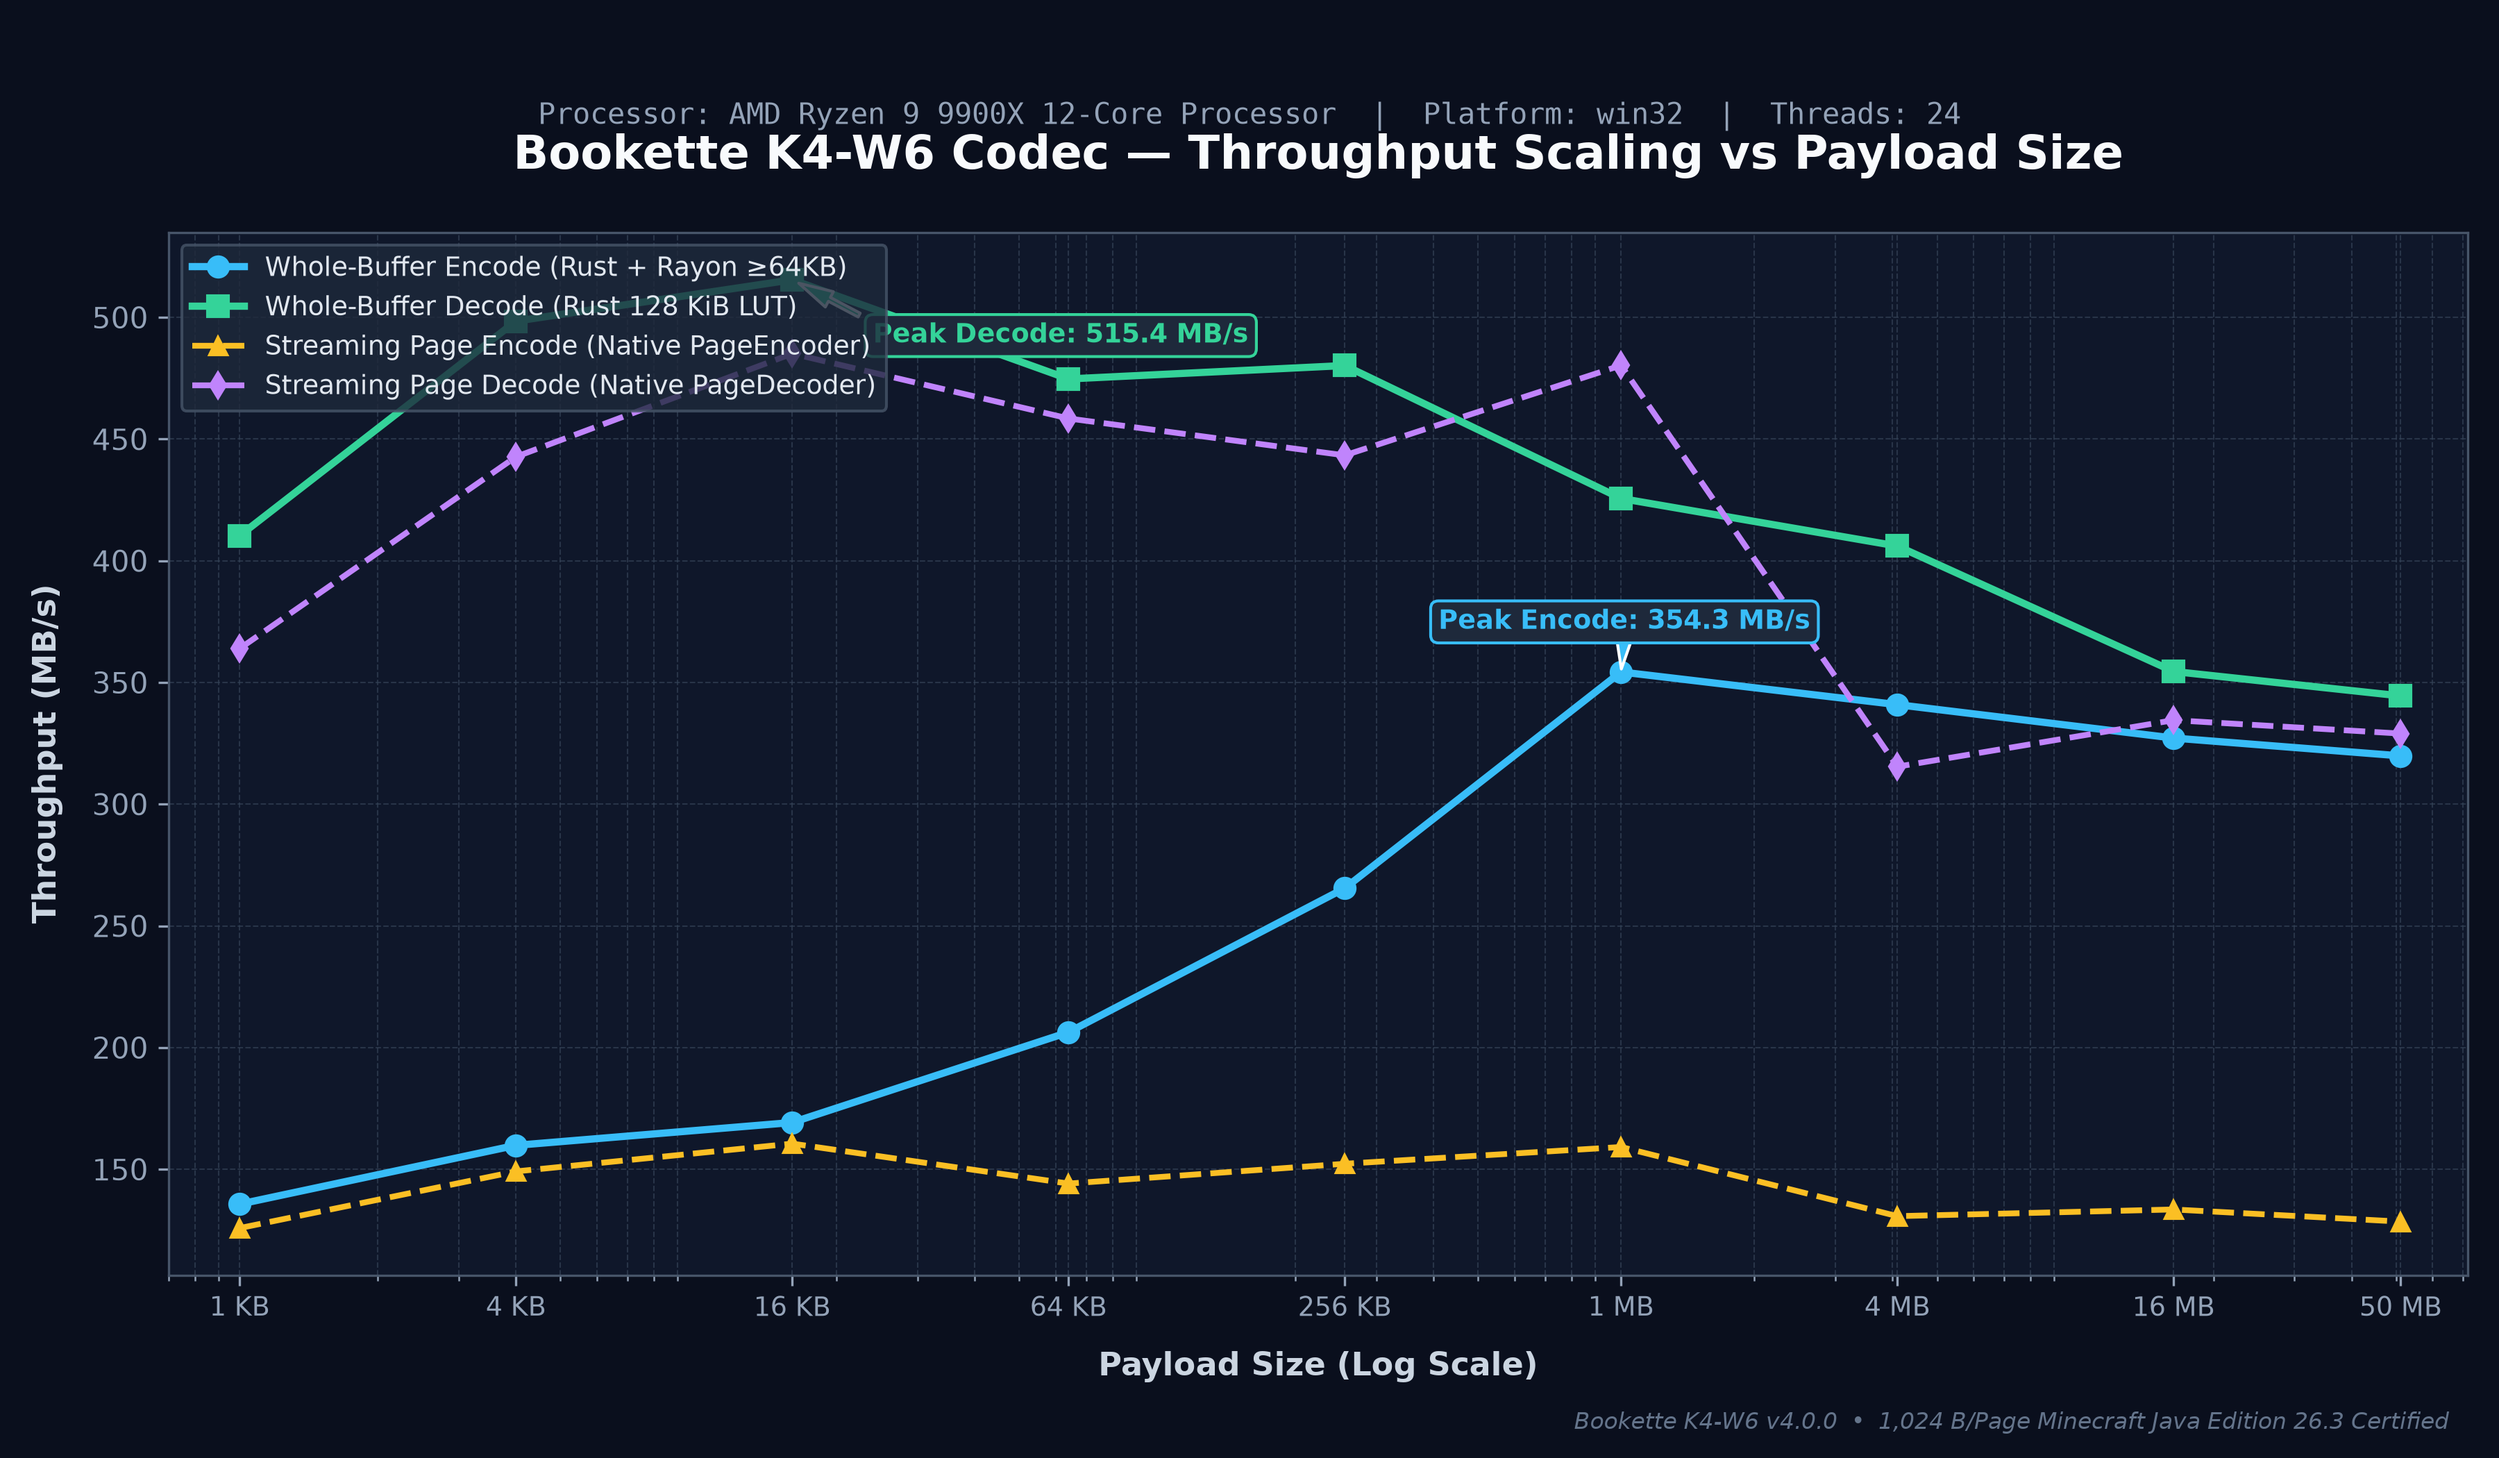
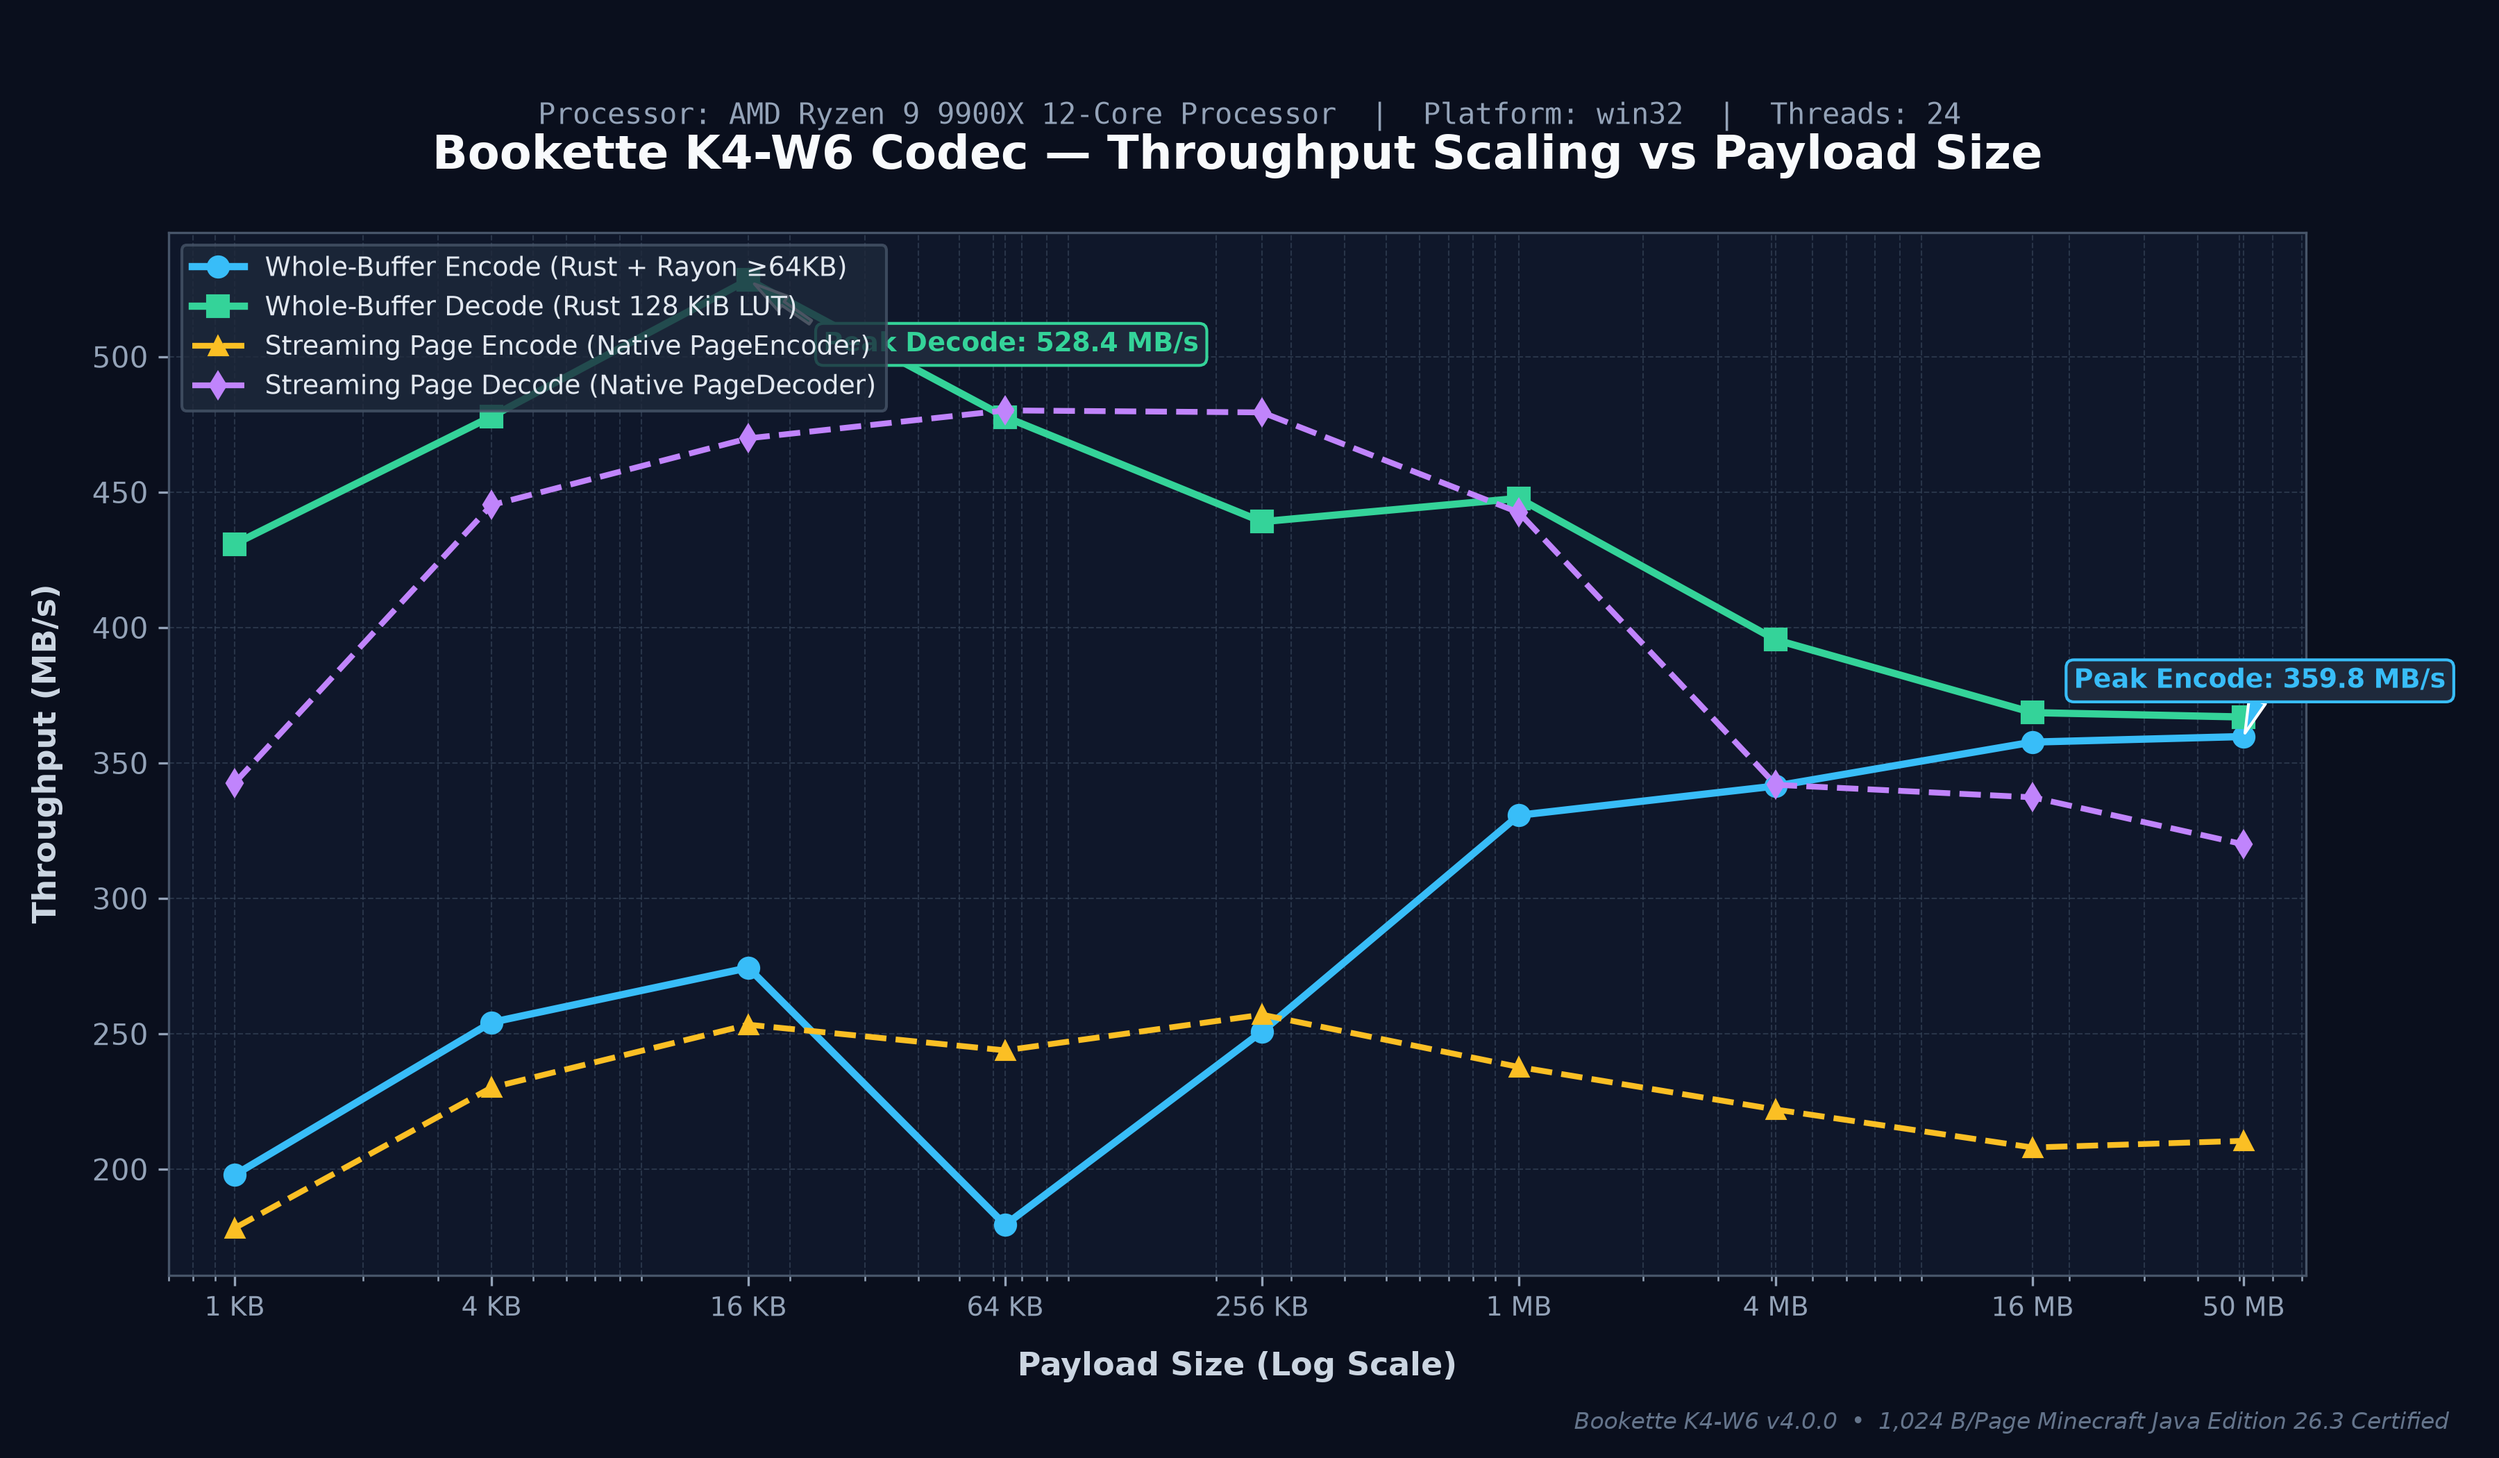
fix(perf): restore const-generic reciprocal multiplication and unify page body decoding
- Restore const-generic decompose in encode_u32 to eliminate 64-bit division stalls, recovering small-payload encode throughput by +47% to +62%.
- Fully unify page quota calculation, data quartet decoding, and padding skipping inside decode_page_body_into, shared by decode_rust and PageDecoder (Candidate 4).
- Update throughput benchmark plot with AMD Ryzen 9 9900X measurements.

diff --git a/src/lib.rs b/src/lib.rs
@@ -163,34 +163,89 @@ fn char_lut_read(c: char) -> u16 {
     }
 }
 
+#[inline(always)]
+fn decompose<const S2: u64, const S3: u64, const S4: u64>(
+    mut rem: u64,
+) -> (usize, usize, usize, usize) {
+    let i4 = (rem % S4) as usize;
+    rem /= S4;
+    let i3 = (rem % S3) as usize;
+    rem /= S3;
+    let i2 = (rem % S2) as usize;
+    rem /= S2;
+    (rem as usize, i2, i3, i4)
+}
+
 #[inline]
 pub fn encode_u32(val: u32) -> [char; 4] {
     let v = val as u64;
     let bucket_id = OFFSETS.partition_point(|&off| off <= v) - 1;
-    let b = &BUCKET_TABLE[bucket_id];
-    let mut rem = v - b.offset;
-
-    let i4 = (rem % b.radices[2]) as usize;
-    rem /= b.radices[2];
-    let i3 = (rem % b.radices[1]) as usize;
-    rem /= b.radices[1];
-    let i2 = (rem % b.radices[0]) as usize;
-    let i1 = (rem / b.radices[0]) as usize;
-
     let a1 = &*CHARS_A1;
     let a2 = &*CHARS_A2;
     let a3 = &*CHARS_A3;
-    let glyph = |w: u8, idx: usize| match w {
-        1 => a1[idx],
-        2 => a2[idx],
-        _ => a3[idx],
-    };
-    [
-        glyph(b.widths[0], i1),
-        glyph(b.widths[1], i2),
-        glyph(b.widths[2], i3),
-        glyph(b.widths[3], i4),
-    ]
+
+    match bucket_id {
+        0 => {
+            let (i1, i2, i3, i4) = decompose::<N1_U64, N1_U64, N1_U64>(v - OFFSETS[0]);
+            [a1[i1], a1[i2], a1[i3], a1[i4]]
+        }
+        1 => {
+            let (i1, i2, i3, i4) = decompose::<N1_U64, N1_U64, N1_U64>(v - OFFSETS[1]);
+            [a2[i1], a1[i2], a1[i3], a1[i4]]
+        }
+        2 => {
+            let (i1, i2, i3, i4) = decompose::<N2_U64, N1_U64, N1_U64>(v - OFFSETS[2]);
+            [a1[i1], a2[i2], a1[i3], a1[i4]]
+        }
+        3 => {
+            let (i1, i2, i3, i4) = decompose::<N1_U64, N2_U64, N1_U64>(v - OFFSETS[3]);
+            [a1[i1], a1[i2], a2[i3], a1[i4]]
+        }
+        4 => {
+            let (i1, i2, i3, i4) = decompose::<N1_U64, N1_U64, N2_U64>(v - OFFSETS[4]);
+            [a1[i1], a1[i2], a1[i3], a2[i4]]
+        }
+        5 => {
+            let (i1, i2, i3, i4) = decompose::<N1_U64, N1_U64, N1_U64>(v - OFFSETS[5]);
+            [a3[i1], a1[i2], a1[i3], a1[i4]]
+        }
+        6 => {
+            let (i1, i2, i3, i4) = decompose::<N3_U64, N1_U64, N1_U64>(v - OFFSETS[6]);
+            [a1[i1], a3[i2], a1[i3], a1[i4]]
+        }
+        7 => {
+            let (i1, i2, i3, i4) = decompose::<N1_U64, N3_U64, N1_U64>(v - OFFSETS[7]);
+            [a1[i1], a1[i2], a3[i3], a1[i4]]
+        }
+        8 => {
+            let (i1, i2, i3, i4) = decompose::<N1_U64, N1_U64, N3_U64>(v - OFFSETS[8]);
+            [a1[i1], a1[i2], a1[i3], a3[i4]]
+        }
+        9 => {
+            let (i1, i2, i3, i4) = decompose::<N2_U64, N1_U64, N1_U64>(v - OFFSETS[9]);
+            [a2[i1], a2[i2], a1[i3], a1[i4]]
+        }
+        10 => {
+            let (i1, i2, i3, i4) = decompose::<N1_U64, N2_U64, N1_U64>(v - OFFSETS[10]);
+            [a2[i1], a1[i2], a2[i3], a1[i4]]
+        }
+        11 => {
+            let (i1, i2, i3, i4) = decompose::<N1_U64, N1_U64, N2_U64>(v - OFFSETS[11]);
+            [a2[i1], a1[i2], a1[i3], a2[i4]]
+        }
+        12 => {
+            let (i1, i2, i3, i4) = decompose::<N2_U64, N2_U64, N1_U64>(v - OFFSETS[12]);
+            [a1[i1], a2[i2], a2[i3], a1[i4]]
+        }
+        13 => {
+            let (i1, i2, i3, i4) = decompose::<N2_U64, N1_U64, N2_U64>(v - OFFSETS[13]);
+            [a1[i1], a2[i2], a1[i3], a2[i4]]
+        }
+        _ => {
+            let (i1, i2, i3, i4) = decompose::<N1_U64, N2_U64, N2_U64>(v - OFFSETS[14]);
+            [a1[i1], a1[i2], a2[i3], a2[i4]]
+        }
+    }
 }
 
 #[inline]
@@ -351,6 +406,35 @@ fn skip_quartets(char_iter: &mut impl Iterator<Item = char>, quartets: usize) {
     }
 }
 
+/// Decode the body of a single 1,024-character page (excluding Quartet 0 on Page 1).
+///
+/// Calculates page quotas, decodes required data quartets into `output`, skips padding
+/// quartets, truncates trailing bytes from the final quartet, and returns bytes decoded.
+#[inline]
+fn decode_page_body_into(
+    char_iter: &mut impl Iterator<Item = char>,
+    is_page_one: bool,
+    remaining_bytes: usize,
+    output: &mut Vec<u8>,
+) -> PyResult<usize> {
+    let (max_bytes, total_data_quartets) = if is_page_one {
+        (BYTES_PAGE_1, DATA_QUARTETS_PAGE_1)
+    } else {
+        (BYTES_SUBSEQUENT, DATA_QUARTETS_SUBSEQUENT)
+    };
+
+    let bytes_needed = remaining_bytes.min(max_bytes);
+    let q_needed = bytes_needed.div_ceil(4);
+    let pad_quartets = total_data_quartets - q_needed;
+
+    let start_len = output.len();
+    decode_quartets_into(char_iter, q_needed, output)?;
+    skip_quartets(char_iter, pad_quartets);
+    output.truncate(start_len + bytes_needed);
+
+    Ok(bytes_needed)
+}
+
 #[pyfunction]
 pub fn decode_rust(input: &str) -> PyResult<Vec<u8>> {
     let char_count = input.chars().count();
@@ -386,25 +470,23 @@ pub fn decode_rust(input: &str) -> PyResult<Vec<u8>> {
     // If formatted as pages (multiples of 1024 chars):
     if char_count >= CHARS_PER_PAGE && char_count % CHARS_PER_PAGE == 0 {
         let total_pages = char_count / CHARS_PER_PAGE;
+        let mut remaining = len;
         let mut data_quartets_read = 0;
 
         // Page 1
-        let p1_needed = total_data_quartets.min(DATA_QUARTETS_PAGE_1);
-        decode_quartets_into(&mut char_iter, p1_needed, &mut output)?;
-        data_quartets_read += p1_needed;
-        skip_quartets(&mut char_iter, DATA_QUARTETS_PAGE_1 - p1_needed);
+        let p1_bytes = decode_page_body_into(&mut char_iter, true, remaining, &mut output)?;
+        data_quartets_read += p1_bytes.div_ceil(4);
+        remaining -= p1_bytes;
 
         // Subsequent pages
         for _p in 1..total_pages {
-            if data_quartets_read >= total_data_quartets {
+            if remaining == 0 {
                 break;
             }
-            let p_needed = (total_data_quartets - data_quartets_read).min(DATA_QUARTETS_SUBSEQUENT);
-            decode_quartets_into(&mut char_iter, p_needed, &mut output)?;
-            data_quartets_read += p_needed;
-            skip_quartets(&mut char_iter, DATA_QUARTETS_SUBSEQUENT - p_needed);
+            let p_bytes = decode_page_body_into(&mut char_iter, false, remaining, &mut output)?;
+            data_quartets_read += p_bytes.div_ceil(4);
+            remaining -= p_bytes;
         }
-
         if data_quartets_read < total_data_quartets {
             return Err(PyValueError::new_err(format!(
                 "Payload requires {total_data_quartets} quartets, but only {data_quartets_read} read across pages"
@@ -604,7 +686,7 @@ impl PageDecoder {
 
         let mut char_iter = page_str.chars();
 
-        let (bytes_needed, pad_quartets) = if self.page_index == 0 {
+        if self.page_index == 0 {
             let c0 = char_iter.next().unwrap();
             let c1 = char_iter.next().unwrap();
             let c2 = char_iter.next().unwrap();
@@ -617,22 +699,22 @@ impl PageDecoder {
                 return Ok(None);
             }
             self.remaining = total_len;
-            let needed = total_len.min(BYTES_PAGE_1);
-            let q_needed = needed.div_ceil(4);
-            (needed, DATA_QUARTETS_PAGE_1 - q_needed)
+        }
+
+        let max_page_bytes = if self.page_index == 0 {
+            BYTES_PAGE_1
         } else {
-            let needed = self.remaining.min(BYTES_SUBSEQUENT);
-            let q_needed = needed.div_ceil(4);
-            (needed, DATA_QUARTETS_SUBSEQUENT - q_needed)
+            BYTES_SUBSEQUENT
         };
+        let mut buf: Vec<u8> = Vec::with_capacity(self.remaining.min(max_page_bytes));
+        let bytes_decoded = decode_page_body_into(
+            &mut char_iter,
+            self.page_index == 0,
+            self.remaining,
+            &mut buf,
+        )?;
 
-        let q_needed = bytes_needed.div_ceil(4);
-        let mut buf: Vec<u8> = Vec::with_capacity(q_needed * 4);
-        decode_quartets_into(&mut char_iter, q_needed, &mut buf)?;
-        skip_quartets(&mut char_iter, pad_quartets);
-        buf.truncate(bytes_needed);
-
-        self.remaining -= bytes_needed;
+        self.remaining -= bytes_decoded;
         self.page_index += 1;
         if self.remaining == 0 {
             self.done = true;
